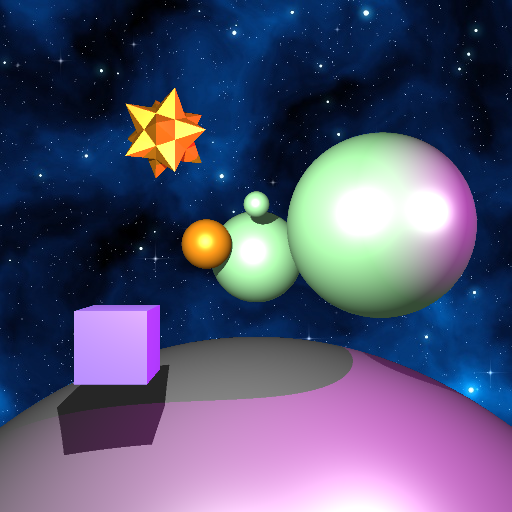
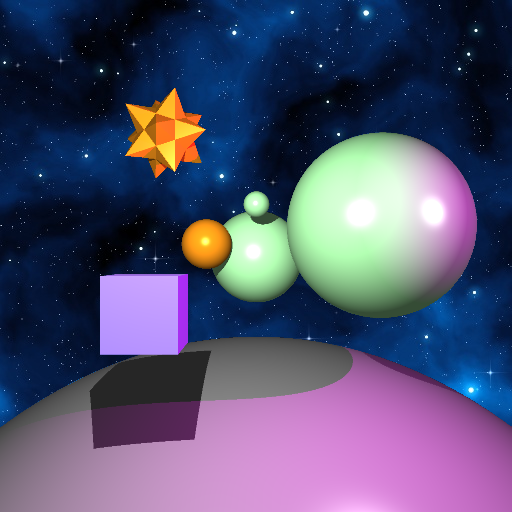
fix specular lighting

diff --git a/cs488/A4/A4.cpp b/cs488/A4/A4.cpp
@@ -15,9 +15,11 @@ using namespace std;
 
 static const char *BG_FILE_NAME = "bg.jpg";
 static const double COLOR_THRESHOLD = 0.01;
+static const double REFLECT_MAX_TIMES = 4;
 static unsigned char *bg_data;
 
 static const bool ADAPTIVE_SAMPLING = true;
+static const bool FRESNEL = false;
 static int bg_x, bg_y, channels;
 
 A4::A4(
@@ -102,7 +104,7 @@ glm::vec3 A4::A4_sample_one_dir(
 	if (t < HUGE_VAL) {
 		// get color
 		vec3 color = getColor(root, eye+t*ray_dir, normal,
-			ambient, lights, ray_dir, obj->m_material);
+			ambient, lights, ray_dir, obj->m_material,0);
 		if (!resample) {
 			not_bg_map[(int)(j*w+i)] = true;
 		}
@@ -208,7 +210,9 @@ glm::vec3 A4::getColor (
 	const glm::vec3 & ambient,
 	const std::list<Light *> & lights,
 	const vec3 & ray_dir,
-	Material *material) {
+	Material *material,
+	int count
+) {
 		bool isPhongMat = false;
 		PhongMaterial *phongMat = dynamic_cast<PhongMaterial *>(material);
 		if (phongMat != NULL) {
@@ -234,14 +238,15 @@ glm::vec3 A4::getColor (
 					// diffuse
 					color += light->colour * material->m_kd * normal_dot_light;
 					// Specular
-					vec3 half = glm::normalize(to_light_dir - ray_dir);
-					double normal_dot_half = glm::dot(n_normal, half);
-					color += material->m_ks * pow(normal_dot_half, material->m_shininess);
+					double cos_thetaI = glm::dot(n_normal, -ray_dir);
+					vec3 rf_ray_dir = glm::normalize(2.0*cos_thetaI*n_normal + ray_dir);
+					double rf_dot_view = std::fmax(0.0, glm::dot(rf_ray_dir, to_light_dir));
+					color += material->m_ks * pow(rf_dot_view, material->m_shininess);
 				}
 			}
 		}
 		color += ambient * material->m_kd;
-		if (isPhongMat) {
+		if (isPhongMat && count <= REFLECT_MAX_TIMES) {
 			// compute reflective ray
 			double cos_thetaI = glm::dot(n_normal, -ray_dir);
 			vec3 rf_ray_dir = glm::normalize(2.0*cos_thetaI*n_normal + ray_dir);
@@ -249,25 +254,28 @@ glm::vec3 A4::getColor (
 			t = HUGE_VAL;
 			A4_Render_pixel_rec (root, start, rf_ray_dir, &t, &n, mat4(1.0), mat4(1.0), &i, &node);
 			if (t != HUGE_VAL) {
-				double sin_thetaI = sqrt(1-pow(cos_thetaI, 2.0));
-				double sin_thetaT = sin_thetaI/phongMat->m_rf_index;
-				double r_avg;
-				if (sin_thetaT >= 1) {
-					r_avg = 1;
+				if (FRESNEL) {
+					double sin_thetaI = sqrt(1-pow(cos_thetaI, 2.0));
+					double sin_thetaT = sin_thetaI/phongMat->m_rf_index;
+					double r_avg;
+					if (sin_thetaT >= 1) {
+						r_avg = 1;
+					} else {
+						double cos_thetaT = sqrt(1-pow(sin_thetaT, 2.0));
+						double r_par = (phongMat->m_rf_index * cos_thetaI - cos_thetaT)/
+							(phongMat->m_rf_index * cos_thetaI + cos_thetaT);
+						double r_per = (cos_thetaI - phongMat->m_rf_index*cos_thetaT)/
+							(cos_thetaI + phongMat->m_rf_index*cos_thetaT);
+						r_avg = (pow(r_par,2.0) + pow(r_per,2.0))/2.0;
+					}
+					if (r_avg > 0.0) {
+						// cout << "r_avg: " << r_avg << endl;
+						vec3 rf_color = getColor (root, i, n, ambient, lights, rf_ray_dir, node->m_material, count+1);
+						color = r_avg * rf_color + (1.0 - r_avg) * color;
+					}
 				} else {
-					double cos_thetaT = sqrt(1-pow(sin_thetaT, 2.0));
-					double r_par = (phongMat->m_rf_index * cos_thetaI - cos_thetaT)/
-						(phongMat->m_rf_index * cos_thetaI + cos_thetaT);
-					double r_per = (cos_thetaI - phongMat->m_rf_index*cos_thetaT)/
-						(cos_thetaI + phongMat->m_rf_index*cos_thetaT);
-					r_avg = (pow(r_par,2.0) + pow(r_per,2.0))/2.0;
-				}
-				// cout << "i angle: " << 180.0*acos(cos_thetaI)/PI << endl;
-				// cout << "rf angle: " << 180.0*asin(sin_thetaT)/PI << endl;
-				if (r_avg > 0.0) {
-					// cout << "r_avg: " << r_avg << endl;
-					vec3 rf_color = getColor (root, i, n, ambient, lights, rf_ray_dir, node->m_material);
-					color = r_avg * rf_color + (1.0 - r_avg) * color;
+					vec3 rf_color = getColor (root, i, n, ambient, lights, rf_ray_dir, node->m_material, count+1);
+					color = 0.3 * rf_color + (1.0 - 0.3) * color;
 				}
 			}
 		}

diff --git a/cs488/A4/A4.hpp b/cs488/A4/A4.hpp
@@ -57,7 +57,8 @@ private:
 		const glm::vec3 & ambient,
 		const std::list<Light *> & lights,
 		const vec3 & ray_dir,
-		Material *material);
+		Material *material,
+		int count);
 
 	void A4_Render_pixel_rec(
 			SceneNode *root,
@@ -79,43 +80,3 @@ private:
 	bool A4_pixel_is_edge (int i, int j, Image & samples, glm::vec3 color);
 	glm::vec3 get_ray_dir(double i, double j);
 };
-// void A4_Render(
-// 		// What to render
-// 		SceneNode * root,
-//
-// 		// Image to write to, set to a given width and height
-// 		Image & image,
-//
-// 		// Viewing parameters
-// 		const glm::vec3 & eye,
-// 		const glm::vec3 & view,
-// 		const glm::vec3 & up,
-// 		double fovy,
-//
-// 		// Lighting parameters
-// 		const glm::vec3 & ambient,
-// 		const std::list<Light *> & lights
-// );
-
-// glm::vec3 getColor (
-// 	SceneNode * root,
-// 	const vec3 & intersection,
-// 	const vec3 & normal,
-// 	const glm::vec3 & ambient,
-// 	const std::list<Light *> & lights,
-// 	const vec3 & ray_dir,
-// 	Material *material);
-//
-// void A4_Render_pixel_rec(
-// 		// What to render
-// 		SceneNode * root,
-// 		// Viewing parameters
-// 		const glm::vec3 & start,
-// 		const glm::vec3 & ray_dir,
-// 		double *t,
-// 		vec3 *n,
-// 		mat4 T,
-// 		mat4 T_n,
-// 		vec3 *intersection,
-// 		GeometryNode **obj
-// );

diff --git a/cs488/A4/Primitive.cpp b/cs488/A4/Primitive.cpp
@@ -71,12 +71,12 @@ bool NonhierBox::intersect(vec3 eye, vec3 ray_dir, double *t, vec3 *n) {
   double xmin,xmax,ymin,ymax,zmin,zmax;
   double t_test, x, y;
   vec3 p_istn;
-  xmin = m_pos[0]-m_size/2.0;
-  xmax = m_pos[0]+m_size/2.0;
-  ymin = m_pos[1]-m_size/2.0;
-  ymax = m_pos[1]+m_size/2.0;
-  zmin = m_pos[2]-m_size/2.0;
-  zmax = m_pos[2]+m_size/2.0;
+  xmin = m_pos[0];
+  xmax = m_pos[0]+m_size;
+  ymin = m_pos[1];
+  ymax = m_pos[1]+m_size;
+  zmin = m_pos[2];
+  zmax = m_pos[2]+m_size;
   *t = HUGE_VAL;
   // z min fixed
   t_test = (zmin - eye[2]) / ray_dir[2];

diff --git a/cs488/A4/Primitive.hpp b/cs488/A4/Primitive.hpp
@@ -45,7 +45,7 @@ public:
   NonhierBox(const glm::vec3& pos, double size)
     : m_pos(pos), m_size(size)
   {
-    m_pos += vec3(0.5,0.5,0.5);
+    m_pos += vec3(0.0,0.0,0.0);
   }
   bool intersect(vec3 eye, vec3 ray_dir, double *t, vec3 *n);
   virtual ~NonhierBox();
